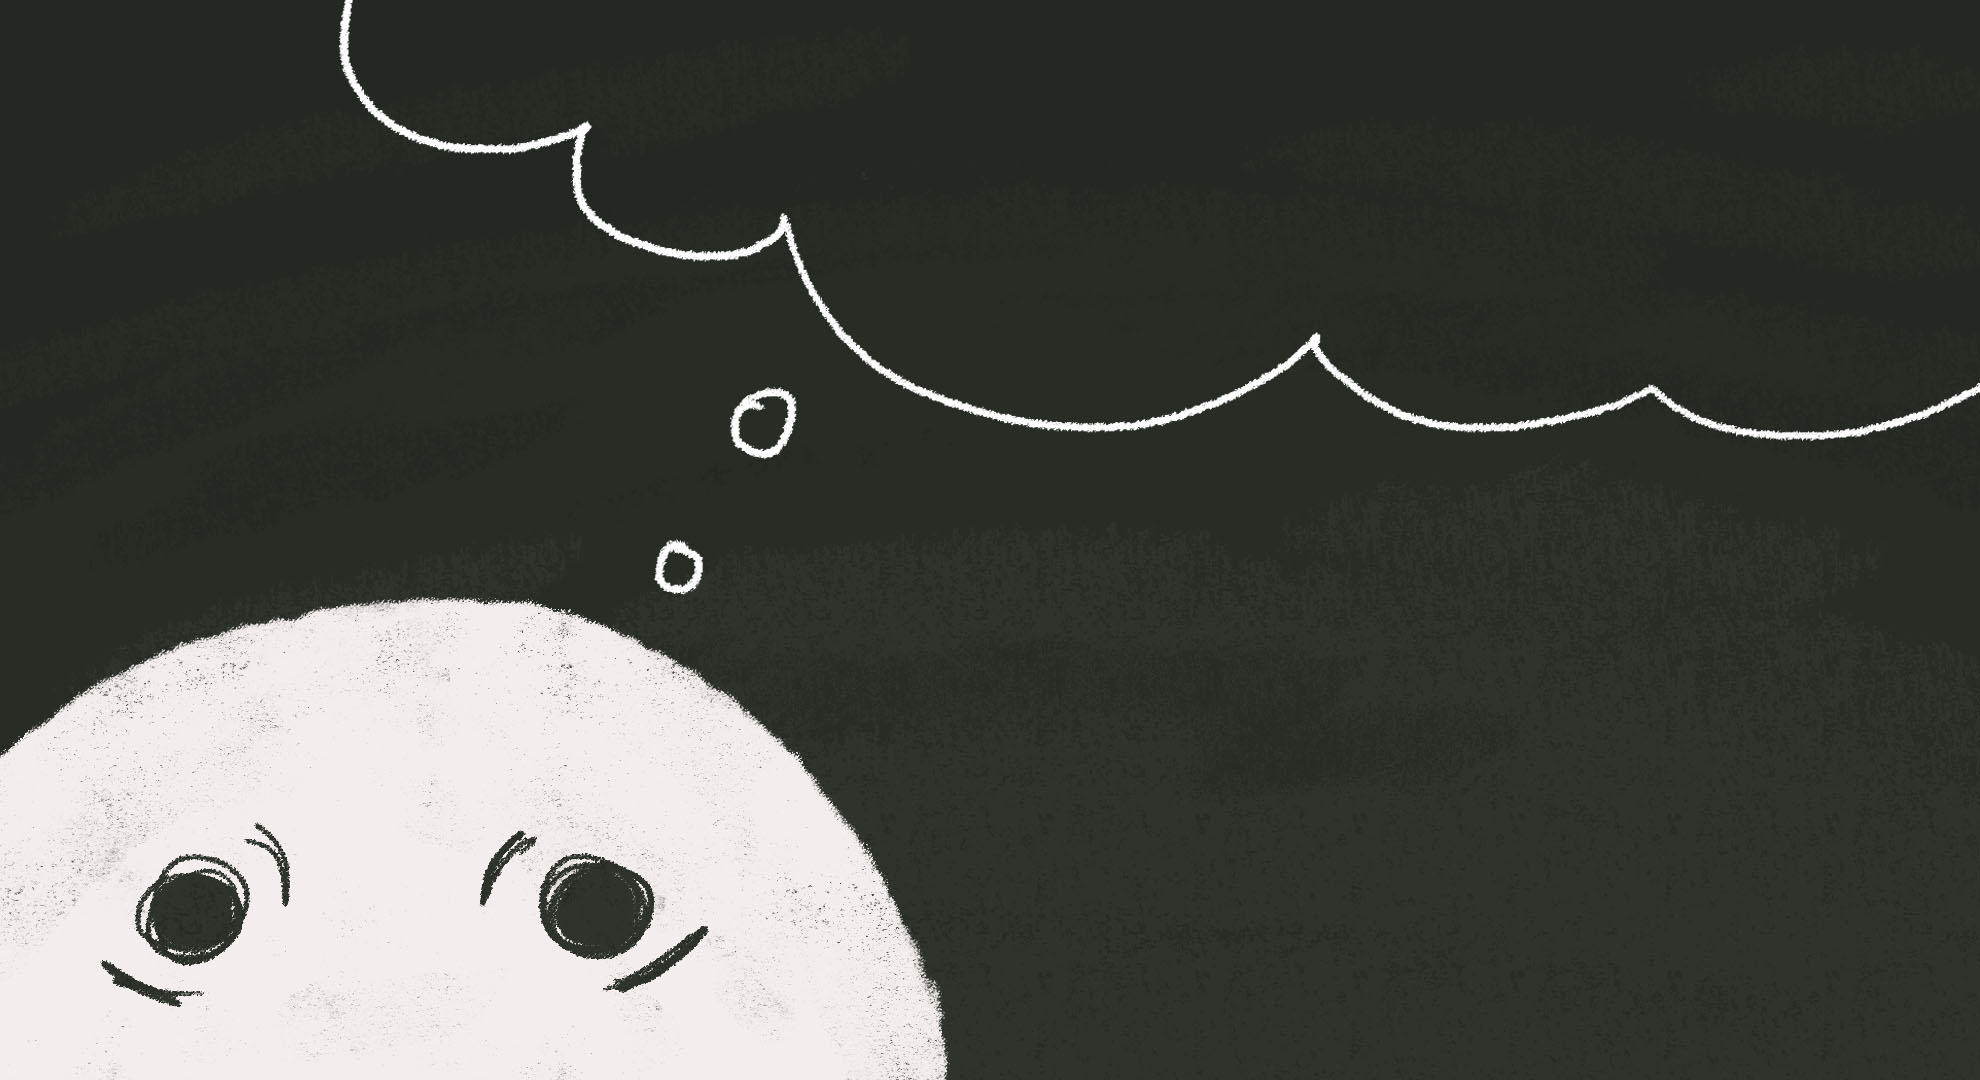
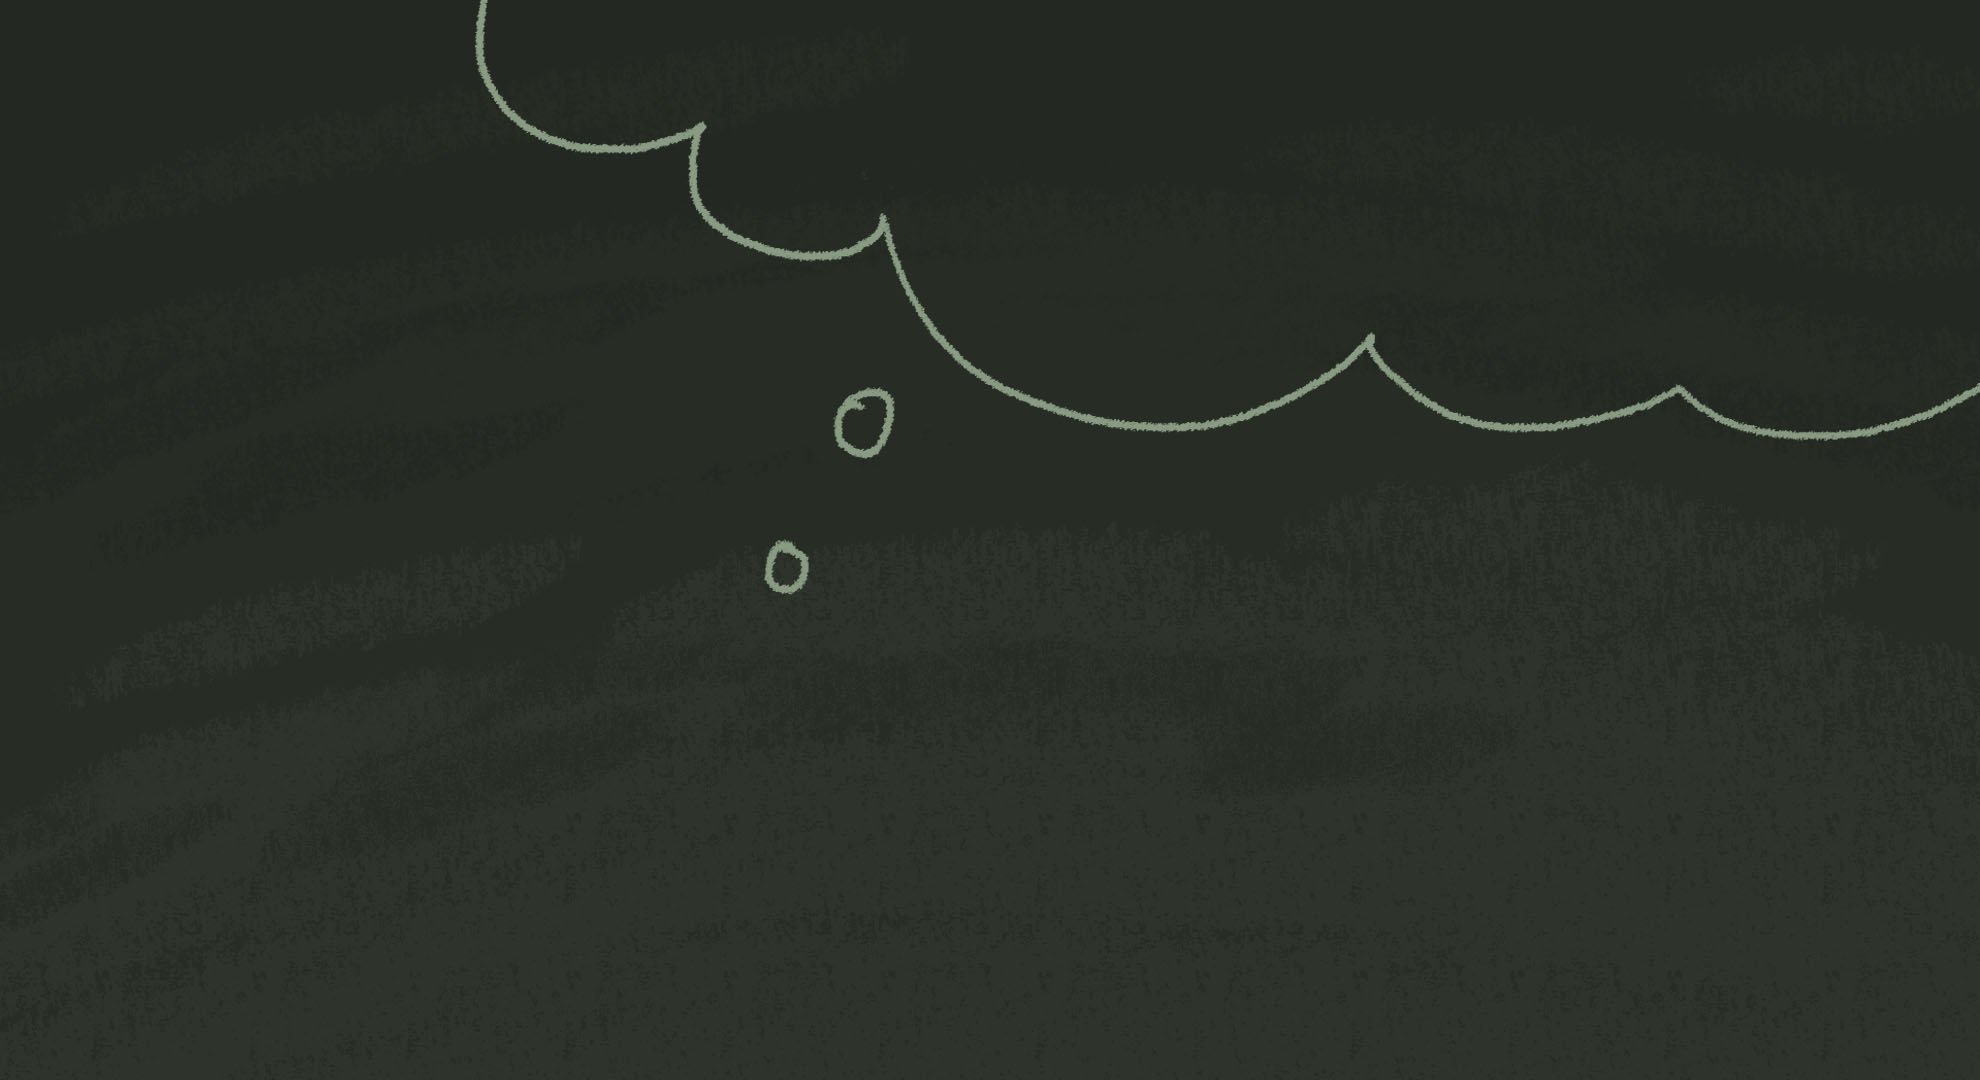
fixed bob expression chnages to prevent screen flashing

diff --git a/hangman V2 copy/script.js b/hangman V2 copy/script.js
@@ -329,8 +329,7 @@ function removeHeart()
 
 function switchExpression()
 {
-    document.getElementsByClassName("playContainer")[0].style.background = "url(visualRecources/playPage"+(incorrectGuesses+1)+".jpg)";
-    document.getElementsByClassName("playContainer")[0].style.backgroundSize = "cover";
+    document.getElementsByClassName("bobStage")[0].src = "visualRecources/bobStage"+(incorrectGuesses+1)+".png";
 }
 
 function checkMaxGuesses()

diff --git a/hangman V2 copy/index.html b/hangman V2 copy/index.html
@@ -67,6 +67,8 @@
                     </p>
                 </div>
             -->
+                <img class="bobStage" src="visualRecources/bobStage1.png" alt="image of happy bob drawing">
+                
                 <div class="wordText">
                     <p id="word">The guessed word goes here</p>
                 </div>

diff --git a/hangman V2 copy/styles.css b/hangman V2 copy/styles.css
@@ -110,8 +110,16 @@
 }
 
 .playContainer {
-    background: url(visualRecources/playPage1.jpg);
+    background: url(visualRecources/playPage.jpg);
     background-size: cover;
+    position: relative;
+}
+
+.bobStage {
+    width: 400px;
+    position: absolute;
+    bottom: 0;
+    left: 0;
 }
 
 .wordText {
